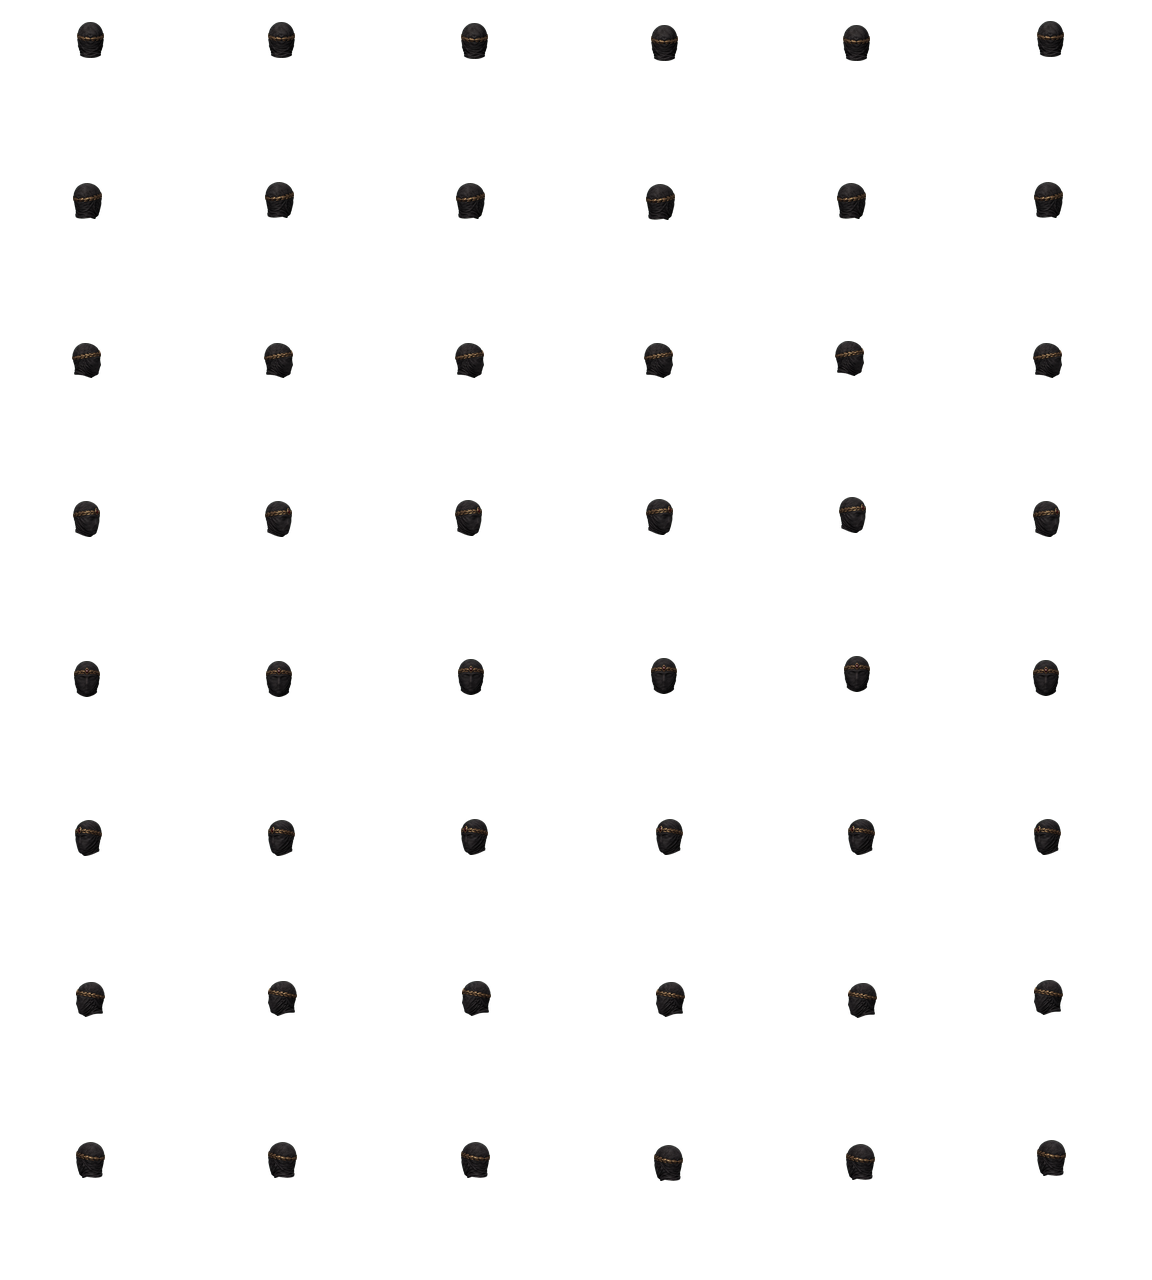
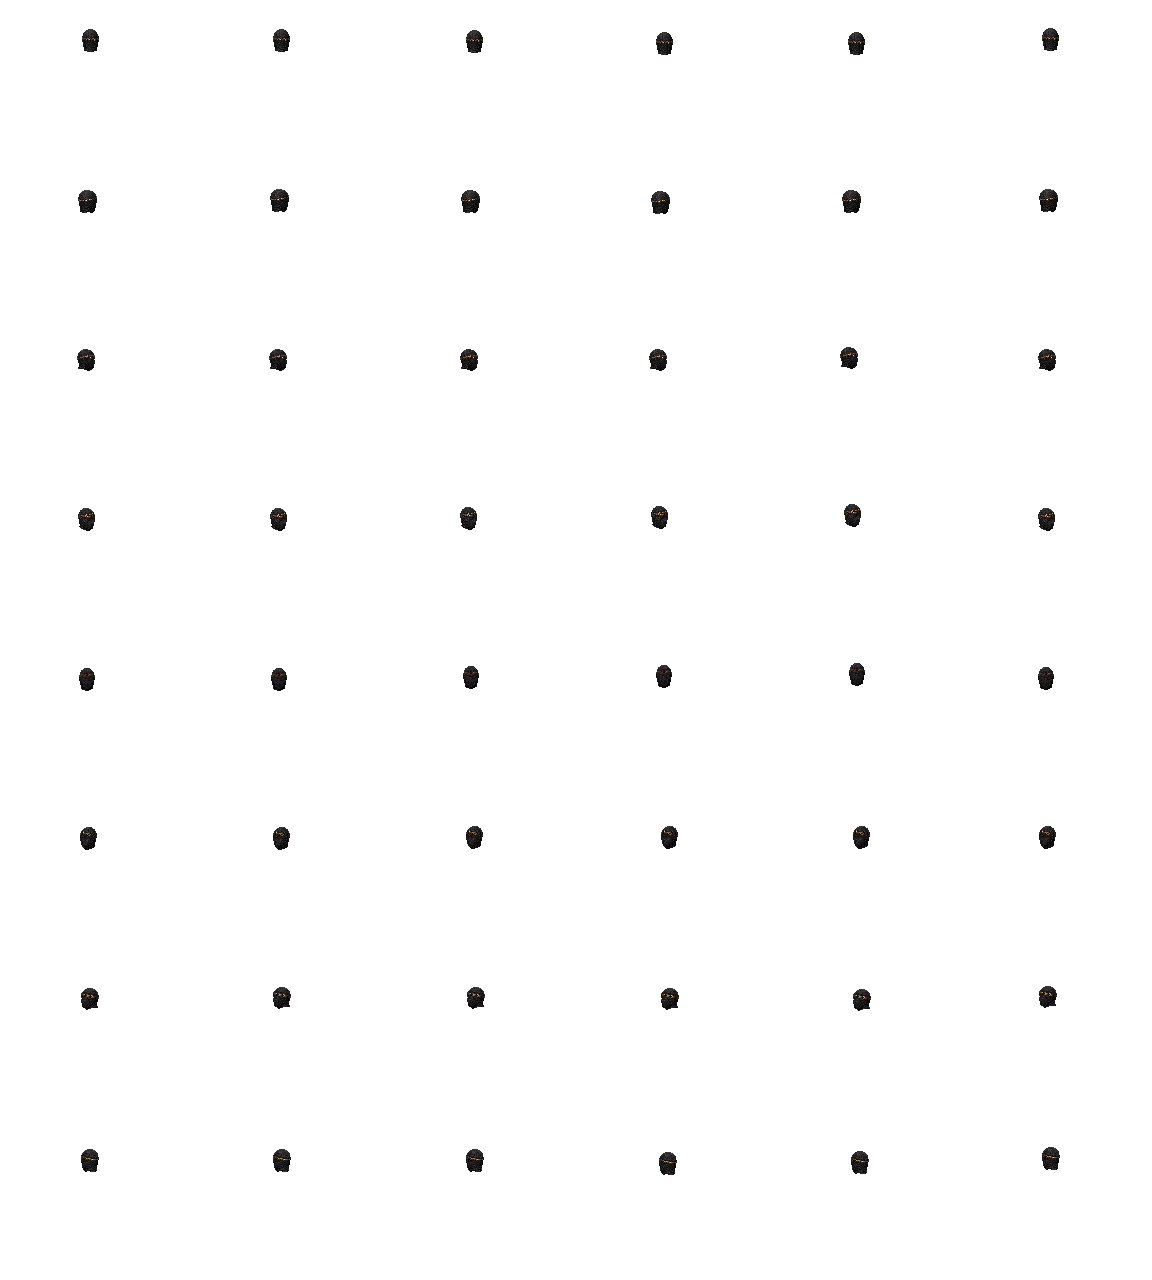
fix(equipment): normalize god magic helmet 236 scale

diff --git a/tools/build_god_magic_helmet_236.py b/tools/build_god_magic_helmet_236.py
@@ -117,19 +117,24 @@ FOOT_ANCHOR = (64, 80)
 # the player's original face without deleting the decorative cage/trim.
 FACE_WINDOWS: dict[str, list[list[list[int]]]] = {}
 
-# The whole horned silhouette is baked at integer pixel sizes.  Height stays
-# consistent across the eight views; the frontal/rear widths remain governed
-# by the approved artwork rather than runtime scaling.
+# Match the accepted default helmet envelope used by the corrected Holy War
+# helmet.  The previous 35-36px bake was about 1.56x the default world size.
+# Bake the approved design at 0.64x with integer pixels; runtime scale stays 1.
 WORLD_HEIGHT = {
-    "N": 36,
-    "NE": 36,
-    "E": 35,
-    "SE": 36,
-    "S": 36,
-    "SW": 36,
-    "W": 35,
-    "NW": 36,
+    "N": 23,
+    "NE": 23,
+    "E": 22,
+    "SE": 23,
+    "S": 23,
+    "SW": 23,
+    "W": 22,
+    "NW": 23,
 }
+WORLD_SCALE_RATIO = 0.64
+PAPER_CANVAS_SIZE = (32, 41)
+PAPER_CONTENT_ENVELOPE = (24, 29)
+
+
 def load_json(path: Path) -> dict:
     return json.loads(path.read_text(encoding="utf-8"))
 
@@ -250,7 +255,7 @@ def crop_alpha(image: Image.Image) -> Image.Image:
 
 def resize_to_height(image: Image.Image, height: int) -> Image.Image:
     width = max(1, round(image.width * height / image.height))
-    return image.resize((width, height), Image.Resampling.LANCZOS)
+    return image.resize((width, height), Image.Resampling.NEAREST)
 
 
 def fit_inside(image: Image.Image, size: tuple[int, int]) -> Image.Image:
@@ -259,11 +264,32 @@ def fit_inside(image: Image.Image, size: tuple[int, int]) -> Image.Image:
         max(1, round(image.width * scale)),
         max(1, round(image.height * scale)),
     )
-    resized = image.resize(target, Image.Resampling.LANCZOS)
+    resized = image.resize(target, Image.Resampling.NEAREST)
     output = Image.new("RGBA", size, (0, 0, 0, 0))
     output.alpha_composite(
         resized,
         ((size[0] - resized.width) // 2, (size[1] - resized.height) // 2),
+    )
+    return output
+
+
+def fit_inside_envelope(
+    image: Image.Image,
+    canvas_size: tuple[int, int],
+    content_envelope: tuple[int, int],
+) -> Image.Image:
+    fitted = fit_inside(image, content_envelope)
+    used = fitted.getchannel("A").getbbox()
+    if used is None:
+        raise ValueError("empty fitted helmet image")
+    fitted = fitted.crop(used)
+    output = Image.new("RGBA", canvas_size, (0, 0, 0, 0))
+    output.alpha_composite(
+        fitted,
+        (
+            (canvas_size[0] - fitted.width) // 2,
+            (canvas_size[1] - fitted.height) // 2,
+        ),
     )
     return output
 
@@ -409,7 +435,8 @@ def build_world_identity(
             "clientMedianOpaquePixels": round(
                 float(baseline["directionRuntimeOpaquePixels"][direction]), 4
             ),
-            "resizeFilter": "lanczos_baked_source_to_integer_pixels",
+            "resizeFilter": "nearest_baked_source_to_integer_pixels",
+            "worldScaleRatio": WORLD_SCALE_RATIO,
             "runtimeScale": 1,
             "facePolicy": FACE_POLICY[direction],
             "hairPolicy": "hide",
@@ -465,7 +492,11 @@ def build_paper_doll_and_icons(
     # Paper doll uses the opaque S design.  The approved black face mask is
     # part of the helmet and must not be cut out.  No base-image erase pass is
     # needed because the opaque helmet layer covers the head itself.
-    paper = fit_inside(wearable["S"], (32, 41))
+    paper = fit_inside_envelope(
+        wearable["S"],
+        PAPER_CANVAS_SIZE,
+        PAPER_CONTENT_ENVELOPE,
+    )
     erase = Image.new("RGBA", paper.size, (255, 255, 255, 0))
     erase.putalpha(
         paper.getchannel("A").point(lambda alpha: 255 if alpha > 0 else 0)
@@ -952,6 +983,29 @@ def validate_outputs() -> dict:
         for record in identity["directionCutouts"].values()
     ):
         raise AssertionError("item 236 introduced runtime scaling")
+    generated_sizes = {
+        direction: identity["directionCutouts"][direction]["generatedSize"]
+        for direction in DIRECTIONS
+    }
+    if any(
+        size[1] != WORLD_HEIGHT[direction]
+        for direction, size in generated_sizes.items()
+    ):
+        raise AssertionError("item 236 world bake height left default envelope")
+    if max(size[0] for size in generated_sizes.values()) > 19:
+        raise AssertionError("item 236 world bake width exceeds default envelope")
+    paper_bounds = paper.getchannel("A").getbbox()
+    if paper_bounds is None:
+        raise AssertionError("paper-doll helmet is empty")
+    paper_content_size = [
+        paper_bounds[2] - paper_bounds[0],
+        paper_bounds[3] - paper_bounds[1],
+    ]
+    if (
+        paper_content_size[0] > PAPER_CONTENT_ENVELOPE[0]
+        or paper_content_size[1] > PAPER_CONTENT_ENVELOPE[1]
+    ):
+        raise AssertionError("paper-doll helmet exceeds default content envelope")
     for action_name, spec in ACTION_SPECS.items():
         action = identity["actions"][action_name]
         atlas_path = ROOT / action["path"].removeprefix("res://")
@@ -981,6 +1035,14 @@ def validate_outputs() -> dict:
         "inventoryFaceWindowOpaque": True,
         "groundFaceWindowOpaque": True,
         "approvedBlackClothVeilRetained": True,
+        "worldScaleRatio": WORLD_SCALE_RATIO,
+        "worldGeneratedSizes": generated_sizes,
+        "worldMaximumSize": [
+            max(size[0] for size in generated_sizes.values()),
+            max(size[1] for size in generated_sizes.values()),
+        ],
+        "paperDollContentEnvelope": list(PAPER_CONTENT_ENVELOPE),
+        "paperDollContentSize": paper_content_size,
         "runtimeScale": 1,
         "textureFilter": "nearest",
         "preview": resource_path(PREVIEW),

diff --git a/tests/equipment_god_magic_helmet_236_test.py b/tests/equipment_god_magic_helmet_236_test.py
@@ -51,6 +51,16 @@ EXPECTED_APPROVED_SHA = (
[1 lines of base64/hex data omitted]
 )
 DIRECTIONS = ["N", "NE", "E", "SE", "S", "SW", "W", "NW"]
+EXPECTED_WORLD_HEIGHTS = {
+    "N": 23,
+    "NE": 23,
+    "E": 22,
+    "SE": 23,
+    "S": 23,
+    "SW": 23,
+    "W": 22,
+    "NW": 23,
+}
 SOURCE_SIZE = (1774, 887)
 SOURCE_X_BOUNDS = [0, 444, 887, 1331, 1774]
 SOURCE_Y_BOUNDS = [0, 444, 887]
@@ -115,12 +125,35 @@ def main() -> None:
         identity["directionCutouts"][direction]["runtimeScale"] == 1
         for direction in DIRECTIONS
     )
+    generated_sizes = {
+        direction: identity["directionCutouts"][direction]["generatedSize"]
+        for direction in DIRECTIONS
+    }
+    assert all(
+        generated_sizes[direction][1] == EXPECTED_WORLD_HEIGHTS[direction]
+        for direction in DIRECTIONS
+    )
+    assert max(size[0] for size in generated_sizes.values()) <= 19
+    assert max(size[1] for size in generated_sizes.values()) <= 23
+    assert all(
+        identity["directionCutouts"][direction]["worldScaleRatio"] == 0.64
+        for direction in DIRECTIONS
+    )
+    assert all(
+        identity["directionCutouts"][direction]["resizeFilter"]
+        == "nearest_baked_source_to_integer_pixels"
+        for direction in DIRECTIONS
+    )
 
     erase = Image.open(ERASE).convert("RGBA")
     assert erase.getchannel("A").getbbox() is not None
     assert erase.getpixel((0, 0))[3] == 0
     assert erase.getpixel((erase.width - 1, erase.height - 1))[3] == 0
     paper = Image.open(HEAD).convert("RGBA")
+    paper_bounds = paper.getchannel("A").getbbox()
+    assert paper_bounds is not None
+    assert paper_bounds[2] - paper_bounds[0] <= 24
+    assert paper_bounds[3] - paper_bounds[1] <= 29
     inventory = Image.open(INVENTORY).convert("RGBA")
     ground = Image.open(GROUND).convert("RGBA")
     assert paper.getpixel((16, 28))[3] == 255
@@ -135,6 +168,10 @@ def main() -> None:
     assert report["paperDollEraseMaskHasTransparentAndOpaquePixels"] is True
     assert report["inventoryFaceWindowOpaque"] is True
     assert report["groundFaceWindowOpaque"] is True
+    assert report["worldScaleRatio"] == 0.64
+    assert report["worldMaximumSize"][0] <= 19
+    assert report["worldMaximumSize"][1] <= 23
+    assert report["paperDollContentEnvelope"] == [24, 29]
     assert report["frozenNon236FilesUnchanged"] is True
     assert report["non236ContractDataUnchanged"] is True
     assert all(
@@ -155,7 +192,8 @@ def main() -> None:
     print(
         "EQUIPMENT_GOD_MAGIC_HELMET_236_TEST_PASS "
         "source_sha=true directions=8 no_cutout=true "
-        "paper_inventory_ground_opaque=true non236_guard=true"
+        "default_world_size=true paper_inventory_ground_opaque=true "
+        "non236_guard=true"
     )
 
 
